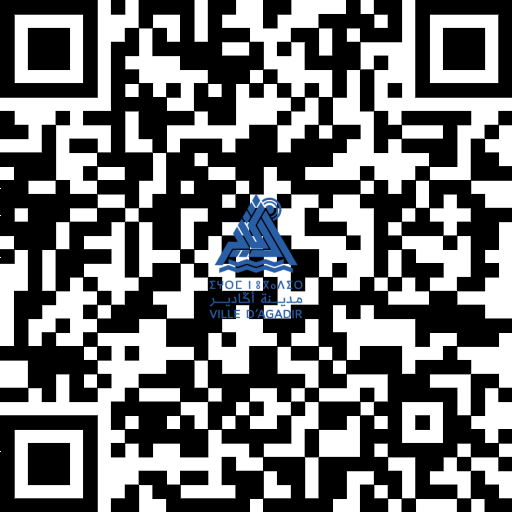
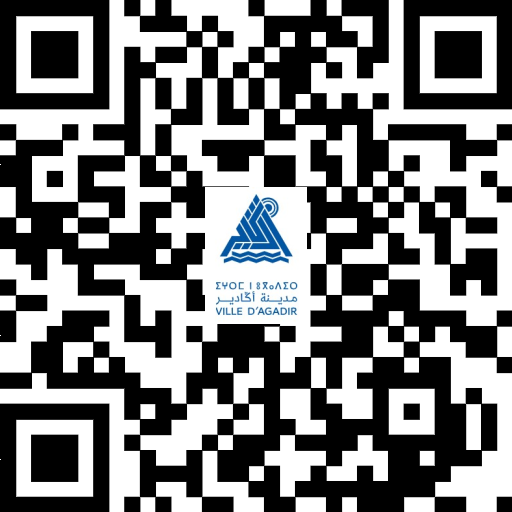
test

diff --git a/resources/views/gestionnairestock/Registre/Ajouter.blade.php b/resources/views/gestionnairestock/Registre/Ajouter.blade.php
@@ -1,17 +1,18 @@
 @extends('gestionnairestock.templateGS')
 
 @section('title')
-Affectation materiel ou équipement :
+Affectation matériel ou équipement :
 @endsection
 
 @section('content')
-<div class="flex flex-col items-center bg-gray-300 p-4 ">
+<div class="w-full flex flex-col items-center bg-gray-300 p-4 space-y-4 md:space-y-6 lg:space-y-8 px-auto lg:mx-auto ">
+
 
     <!-- Search Bar -->
-    <div class="mb-4 w-full max-w-md">
+    <div class="w-full max-w-md">
         <form method="get" action="{{route('Registre.SearchUser')}}" class="flex items-center">
             <input value="{{$materiels_id}}" type="number" name="id" class="hidden"/>
-            <input type="text" name="valeur" class="w-full rounded-lg p-3 h-10 mx-2 border-gray-600 bg-white placeholder-gray-400 text-black focus:ring-blue-500 focus:border-blue-500" placeholder="recherche"/>
+            <input type="text" name="valeur" class="flex-grow rounded-lg p-3 h-10 mx-2 border-gray-600 bg-white placeholder-gray-400 text-black focus:ring-blue-500 focus:border-blue-500" placeholder="recherche"/>
             <button type="submit" class="p-2.5 text-sm font-medium text-white bg-blue-700 rounded-lg border border-blue-700 hover:bg-blue-800 focus:ring-4 focus:outline-none focus:ring-blue-300">
                 <svg class="w-4 h-4" aria-hidden="true" xmlns="http://www.w3.org/2000/svg" fill="none" viewBox="0 0 20 20">
                     <path stroke="currentColor" stroke-linecap="round" stroke-linejoin="round" stroke-width="2" d="m19 19-4-4m0-7A7 7 0 1 1 1 8a7 7 0 0 1 14 0Z"/>
@@ -20,40 +21,36 @@ Affectation materiel ou équipement :
         </form>
     </div>
 
-   
-    <div class=" ">
-        <form action="{{ route('Registre.refer') }}" method="post" class=" max-w-5xl">
+    <div class="w-full max-w-5xl">
+        <form action="{{ route('Registre.refer') }}" method="post" class="space-y-4 md:space-y-6 lg:space-y-8">
             @csrf
-             <!-- Table -->
-  
-             
-<div class="wrelative overflow-x-auto  sm:rounded-lg  bg-gray-500 ">
-             <table class=" text-sm text-left rtl:text-right text-gray-500 ">
-                <thead class="text-xs text-gray-700 uppercase bg-gray-400">
-                    <tr>
-                        <th scope="col" class="px-6 py-3">Nom</th>
-                        <th scope="col" class="px-6 py-3">Prenom</th>
-                        <th scope="col" class="px-6 py-3">Division</th>
-                        <th scope="col" class="px-6 py-3">Service</th>
-                        <th scope="col" class="px-6 py-3">Action</th>
-                    </tr>
-                </thead>
-                <tbody>
-                    @foreach ($users as $item)
-                    <tr class="bg-gray-100 border-b border-gray-200 hover:bg-gray-200">
-                        <td class="px-6 py-4 text-black">{{ $item->nom }}</td>
-                        <td class="px-6 py-4 text-black">{{ $item->prenom }}</td>
-                        <td class="px-6 py-4 text-black">{{ $item->division }}</td>
-                        <td class="px-6 py-4 text-black">{{ $item->service }}</td>
-                        <td class="px-6 py-4">
-                            <input type="radio" value="{{ $item->id }}" name="users_id" class="w-4 h-4 text-blue-600 bg-gray-100 border-gray-300 focus:ring-blue-500">
-                        </td>
-                    </tr>
-                    @endforeach
-                </tbody>
-            </table>
-</div>
-
+            <!-- Table -->
+            <div class="relative overflow-x-auto sm:rounded-lg">
+                <table class="w-full text-sm text-left rtl:text-right text-gray-500">
+                    <thead class="text-xs text-gray-700 uppercase bg-gray-400">
+                        <tr>
+                            <th scope="col" class="px-6 py-3">Nom</th>
+                            <th scope="col" class="px-6 py-3">Prenom</th>
+                            <th scope="col" class="px-6 py-3">Division</th>
+                            <th scope="col" class="px-6 py-3">Service</th>
+                            <th scope="col" class="px-6 py-3">Action</th>
+                        </tr>
+                    </thead>
+                    <tbody>
+                        @foreach ($users as $item)
+                        <tr class="bg-gray-100 border-b border-gray-200 hover:bg-gray-200">
+                            <td class="px-6 py-4 text-black">{{ $item->nom }}</td>
+                            <td class="px-6 py-4 text-black">{{ $item->prenom }}</td>
+                            <td class="px-6 py-4 text-black">{{ $item->division }}</td>
+                            <td class="px-6 py-4 text-black">{{ $item->service }}</td>
+                            <td class="px-6 py-4">
+                                <input type="radio" value="{{ $item->id }}" name="users_id" class="w-4 h-4 text-blue-600 bg-gray-100 border-gray-300 focus:ring-blue-500">
+                            </td>
+                        </tr>
+                        @endforeach
+                    </tbody>
+                </table>
+            </div>
 
             <!-- Pagination -->
             <div class="m-4">
@@ -62,12 +59,12 @@ Affectation materiel ou équipement :
             </div>
 
             <!-- Form Fields -->
-            <div class="w-full max-w-md mx-auto">
+            <div class="space-y-4 md:space-y-6 lg:space-y-8">
                 <input value="{{$materiels_id}}" type="number" class="hidden" name="materiels_id"/>
                 
-                <div class="mt-4">
-                    <label class="font-medium text-black uppercase">Etat de materiel :</label>
-                    <select name="etats_id" class="w-full rounded-lg p-1 h-10 m-2 bg-white border-gray-600 placeholder-gray-700 text-gray-700">
+                <div>
+                    <label class="font-medium text-black uppercase">État de matériel :</label>
+                    <select name="etats_id" class="w-full rounded-lg p-2 h-10 bg-white border-gray-600 placeholder-gray-700 text-gray-700">
                         <option value="" selected></option>
                         @foreach ($etats as $item)
                         <option value="{{$item->id}}">{{$item->nom}}</option>
@@ -78,32 +75,32 @@ Affectation materiel ou équipement :
                     @enderror
                 </div>
 
-                <div class="mt-2">
-                    <label class="font-medium text-black uppercase">Lieu de materiel ou Fonctionaire :</label>
-                    <input type="text" class="w-full rounded-lg p-3 h-10 m-2 bg-white border-gray-600 placeholder-gray-700 text-gray-700" name="lieu"/>
+                <div>
+                    <label class="font-medium text-black uppercase">Lieu de matériel ou Fonctionnaire :</label>
+                    <input type="text" class="w-full rounded-lg p-3 h-10 bg-white border-gray-600 placeholder-gray-700 text-gray-700" name="lieu"/>
                     @error('lieu')
                     <span class="text-red-600">{{ $message }}</span>
                     @enderror
                 </div>
 
-                <div class="mt-2">
-                    <label class="font-medium text-black uppercase">Date de affectation :</label>
-                    <input type="date" id="date" name="date" class="w-full rounded-lg p-3 h-10 m-2 bg-white border-gray-600 placeholder-gray-700 text-gray-700"/>
+                <div>
+                    <label class="font-medium text-black uppercase">Date d'affectation :</label>
+                    <input type="date" id="date" name="date" class="w-full rounded-lg p-3 h-10 bg-white border-gray-600 placeholder-gray-700 text-gray-700"/>
                     @error('date')
                     <span class="text-red-600">{{ $message }}</span>
                     @enderror
                 </div>
 
-                <div class="mt-2">
+                <div>
                     <label class="font-medium text-black uppercase">Rapport :</label>
-                    <textarea class="w-full rounded-lg p-3 h-40 m-2 bg-white border-gray-600 placeholder-gray-700 text-gray-700" name="rapport"></textarea>
+                    <textarea class="w-full rounded-lg p-3 h-40 bg-white border-gray-600 placeholder-gray-700 text-gray-700" name="rapport"></textarea>
                     @error('rapport')
                     <span class="text-red-600">{{ $message }}</span>
                     @enderror
                 </div>
 
-                <div class="flex justify-center mt-4">
-                    <button class="mr-10 text-white font-medium rounded-lg text-sm h-9 p-2 text-center bg-blue-600 hover:bg-blue-700 focus:ring-blue-800">
+                <div class="flex flex-col md:flex-row justify-center mt-4 space-y-4 md:space-y-0 md:space-x-4">
+                    <button class="text-white font-medium rounded-lg text-sm h-9 p-2 text-center bg-blue-600 hover:bg-blue-700 focus:ring-blue-800">
                         Oui, Affecté
                     </button>
                     <a href="{{route('GestionnairesStock.index')}}" class="text-white font-medium rounded-lg text-sm h-9 p-2 text-center bg-blue-600 hover:bg-blue-700 focus:ring-blue-800">

diff --git a/resources/views/gestionnairestock/home.blade.php b/resources/views/gestionnairestock/home.blade.php
@@ -7,48 +7,52 @@ d’équipement :
 
 
 @section('content')
+
+
 <!--searchbar-->
-<div class="">
-    <div class="">
-        <form method="get" action="{{route('gestionnairestock.search')}}" class="flex flex-wrap justify-center w-full my-6  items-center ">   
-        @csrf
-        <div class="relative flex-wrap justify-center  flex  ">
-            
-            <input type="text" name="nom" class="rounded-lg p-3 h-10 w-30  m-2 bg-white-400 border-gray-600 placeholder-gray-700 text-gray-700 " placeholder="nom"  />
-            <input type="text" name="model" class="rounded-lg p-3 h-10 w-30  m-2 bg-white-400 border-gray-600 placeholder-gray-700 text-gray-700 " placeholder="model"  />
-            
-            <select name="categories_id" class="items-center flex rounded-lg p-2 h-10 w-30  m-2 bg-white-400 border-gray-600 placeholder-gray-700 text-gray-700 ">
-            <option selected>Choisir un categorie</option>
-            <option value="">Avec no categorie</option>
-            @foreach ($categories as $item)
-            <option  value="{{$item->id}}">{{$item->nom}}</option>
-            @endforeach
-            </select>
 
-            <select name="marques_id" class="items-center flex rounded-lg p-2 h-10 w-30  m-2 bg-white-400 border-gray-600 placeholder-gray-700 text-gray-700 ">
-                <option selected>Choisir un marque</option>
-                <option value="">Avec no marque</option>
-                @foreach ($marques as $item)
-                <option  value="{{$item->id}}">{{$item->nom}}</option>
-                @endforeach
+    <div class="px-4 ">
+        <form method="get" action="{{route('gestionnairestock.search')}}" class="">   
+            @csrf
+            <div class=" flex flex-wrap  lg:flex-inline justify-center items-center  ">
+                
+
+                <div class="flex   w-full lg:w-1/2 m-1.5">
+                    <input type="text" name="valeur" class=" rounded-l-lg p-3 h-10 w-full bg-white border-gray-600 placeholder-gray-700 text-gray-700" placeholder="recherche par nom/model/barcode" />
+                    <button id="BARCODE" class="p-1.5 h-10 w-10 rounded-r-lg border border-blue-700 bg-blue-600 hover:bg-blue-700 focus:ring-blue-800">
+                        <svg xmlns="http://www.w3.org/2000/svg" height="24px" viewBox="0 -960 960 960" width="24px" fill="#FFFFFF">
+                            <path d="M40-120v-200h80v120h120v80H40Zm680 0v-80h120v-120h80v200H720ZM160-240v-480h80v480h-80Zm120 0v-480h40v480h-40Zm120 0v-480h80v480h-80Zm120 0v-480h120v480H520Zm160 0v-480h40v480h-40Zm80 0v-480h40v480h-40ZM40-640v-200h200v80H120v120H40Zm800 0v-120H720v-80h200v200h-80Z"/>
+                        </svg>
+                    </button>
+                </div> 
+                
+                <select name="categories_id" class="rounded-lg p-2 m-1.5 h-10 w-full md:w-40  bg-white border-gray-600 placeholder-gray-700 text-gray-700">
+                    <option selected>Choisir une categorie</option>
+                    <option value="">Avec no catégorie</option>
+                    @foreach ($categories as $item)
+                    <option value="{{$item->id}}">{{$item->nom}}</option>
+                    @endforeach
                 </select>
-    <div class="flex m-2 ">
-            <input type="text" name="barcode" class="rounded-l-lg p-3 h-10 w-30 bg-white-400 border-gray-600 placeholder-gray-700 text-gray-700 " placeholder="barcode"  />
-           <button id="BARCODE" class="p-1.5 h-10  rounded-r-lg border border-blue-700    bg-blue-600 hover:bg-blue-700 focus:ring-blue-800">
-            <svg xmlns="http://www.w3.org/2000/svg" height="24px" viewBox="0 -960 960 960" width="24px" fill="#FFFFFF"><path d="M40-120v-200h80v120h120v80H40Zm680 0v-80h120v-120h80v200H720ZM160-240v-480h80v480h-80Zm120 0v-480h40v480h-40Zm120 0v-480h80v480h-80Zm120 0v-480h120v480H520Zm160 0v-480h40v480h-40Zm80 0v-480h40v480h-40ZM40-640v-200h200v80H120v120H40Zm800 0v-120H720v-80h200v200h-80Z"/></svg>
-           </button>
-    </div>      
 
-               <button type="submit" class="w-30 justify-center items-center   p-2.5 ms-2 m-2 text-sm font-medium text-white  rounded-lg border border-blue-700    bg-blue-600 hover:bg-blue-700 focus:ring-blue-800">
-               <svg class="w-5 h-4 " aria-hidden="true" xmlns="http://www.w3.org/2000/svg" fill="none" viewBox="0 0 20 20">
-                <path stroke="currentColor" stroke-linecap="round" stroke-linejoin="round" stroke-width="2" d="m19 19-4-4m0-7A7 7 0 1 1 1 8a7 7 0 0 1 14 0Z"/>
-              </svg>
-            
-              </button>
-          </div>
+                <select name="marques_id" class="rounded-lg p-2 m-1.5 h-10 w-full md:w-40  bg-white border-gray-600 placeholder-gray-700 text-gray-700">
+                    <option selected>Choisir une marque</option>
+                    <option value="">Avec no marque</option>
+                    @foreach ($marques as $item)
+                    <option value="{{$item->id}}">{{$item->nom}}</option>
+                    @endforeach
+                </select>
+
+                    
+
+                <button type="submit" class="w-full md:w-auto  p-2.5 m-1.5 text-sm font-medium text-white rounded-lg border border-blue-700 bg-blue-600 hover:bg-blue-700 focus:ring-blue-800">
+                    <svg class="w-5 h-4 mx-auto" aria-hidden="true" xmlns="http://www.w3.org/2000/svg" fill="none" viewBox="0 0 20 20">
+                        <path stroke="currentColor" stroke-linecap="round" stroke-linejoin="round" stroke-width="2" d="m19 19-4-4m0-7A7 7 0 1 1 1 8a7 7 0 0 1 14 0Z"/>
+                    </svg>
+                </button>
+            </div>
         </form>
-     </div>
-</div>
+    </div>
+
 <br/>
 
 
@@ -57,7 +61,8 @@ d’équipement :
 
 <!--ajouterbottun-->
 <div class="flex flex-row-reverse z-0 ">
-    <a href="{{route('gestionnairestock.fill')}}" class=" mr-4 rounded-lg  h-10 px-4 py-2 w-25 mx-2 bg-blue-600 hover:bg-blue-700  text-white ">Ajouter un nouveau utilisateur</a>
+    <a href="{{route('gestionnairestock.fill')}}" class=" mr-4 rounded-lg  h-10 px-4 py-2 w-25 mx-2 bg-blue-600 hover:bg-blue-700  text-white text-sm">Ajouter un nouveau Matériels ou équipement 
+    </a>
 </div>
 <br/>
 
@@ -70,8 +75,8 @@ d’équipement :
 
 
 <!--Display items-->
-<div class="justify-center  bg-gray-300 z-0">
-    <div class="p-4  flex flex-wrap pr-0 z-0">
+<div class="justify-center  bg-gray-300 z-0 ">
+    <div class="p-1.5  flex flex-wrap pr-0 z-0">
 
         @foreach($materiels as $item)
 

diff --git a/resources/views/gestionnairestock/Marque/home.blade.php b/resources/views/gestionnairestock/Marque/home.blade.php
@@ -14,7 +14,7 @@ Les marques :
             <div class="relative flex">
                 <div class="absolute inset-y-0 start-0 flex  ps-3 pointer-events-none">
                 </div>
-                <input type="text" name="nom" class="w-full rounded-lg p-3 h-10 mx-2  border-gray-600 bg-white-400 placeholder-gray-400 text-black focus:ring-blue-500 focus:border-blue-500" placeholder="nom" />
+                <input type="text" name="nom" class="w-full rounded-lg p-3 h-10 mx-2  border-gray-600 bg-white-400 placeholder-gray-400 text-black focus:ring-blue-500 focus:border-blue-500" placeholder="recherche par nom de marque" />
 
                 <button type="submit" class="p-2.5 ms-2 text-sm font-medium text-white bg-blue-700 rounded-lg border border-blue-700 hover:bg-blue-800 focus:ring-4 focus:outline-none focus:ring-blue-300 dark:bg-blue-600 dark:hover:bg-blue-700 dark:focus:ring-blue-800">
                     <svg class="w-4 h-4" aria-hidden="true" xmlns="http://www.w3.org/2000/svg" fill="none" viewBox="0 0 20 20">

diff --git a/app/Http/Controllers/GestionnairesStockController.php b/app/Http/Controllers/GestionnairesStockController.php
@@ -30,12 +30,12 @@ class GestionnairesStockController extends Controller
   $q = Materiel::query(); 
 
   
-  if($r->has('categories_id') && ($r->input('categories_id') != 'Choisir un categorie')){
+  if($r->has('categories_id') && ($r->input('categories_id') != 'Choisir une categorie')){
       $v = $r->input('categories_id');
       $q->where('categories_id','=', $v );
   }
 
-  if($r->has('marques_id') && ($r->input('marques_id') != 'Choisir un marque')){
+  if($r->has('marques_id') && ($r->input('marques_id') != 'Choisir une marque')){
       $v = $r->input('marques_id');
       $q->where('marques_id','=', $v );
   }

diff --git a/resources/views/gestionnairestock/Registre/home.blade.php b/resources/views/gestionnairestock/Registre/home.blade.php
@@ -7,7 +7,7 @@ Le Registre :
 @section('content')
  <!--searchbar-->
  <div class="mx-2 items-center ">
-    <form method="get" action="{{route('Registre.search')}}" class="flex m-6  ">
+    <form method="get" action="{{route('Registre.search')}}" class="flex m-6  w-ful ">
         @csrf
         <div class="relative flex ">
             <div class="flex items-center ps-3 pointer-events-none">

diff --git a/app/Http/Controllers/RegistreController.php b/app/Http/Controllers/RegistreController.php
@@ -47,7 +47,7 @@ class RegistreController extends Controller
 
     $data = QrCode::size(512)
     ->format('png') 
-    ->merge('/public/assets/images/Logo_Agadir.png')
+    ->merge('/public/assets/images/Logo_Agadir.jpg')
     ->errorCorrection('M')
     ->generate(
         route('Registre.display',$id)
